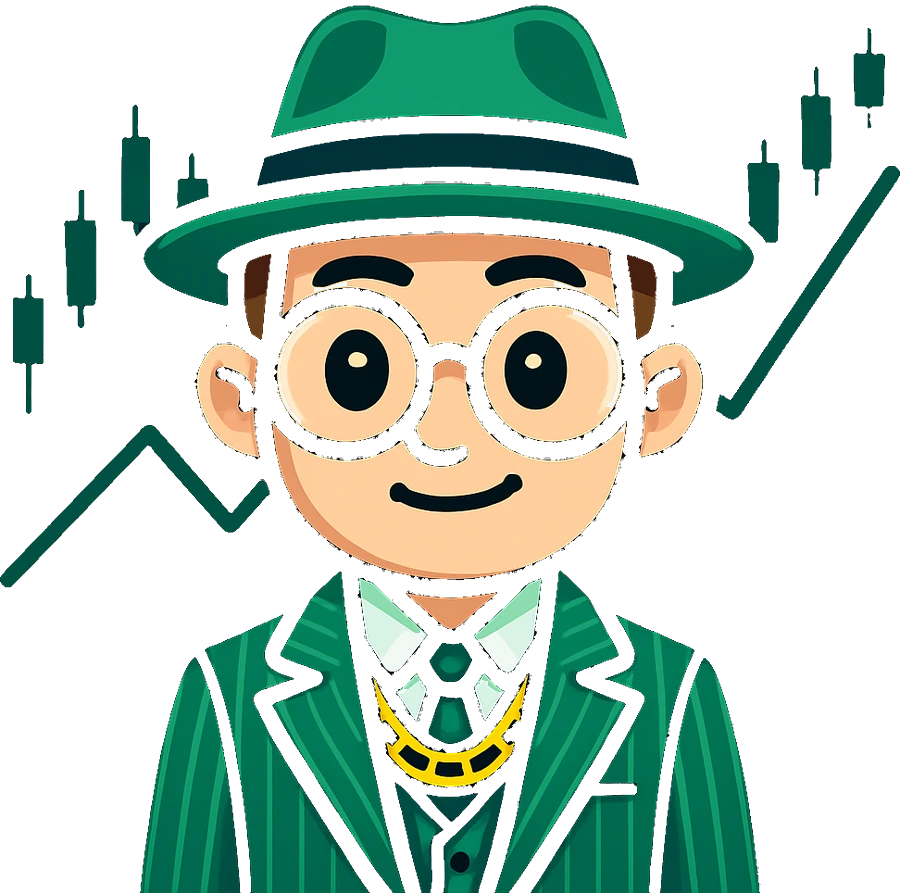
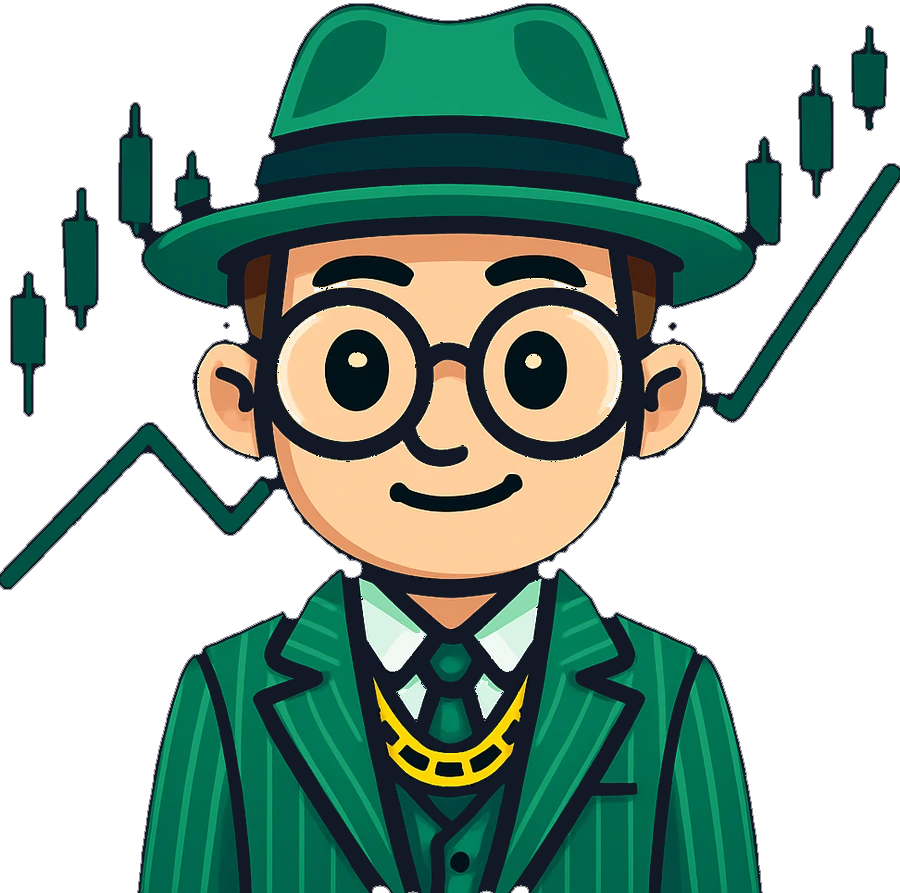
v3-goal-b21-2026-10-18: M-3 Stox mascot outline fix, H-4 quota on 500-row page, CR-6 dialog opens at cap, G-08 spot rounding, G-23 nine more sourced guides

diff --git a/src/data/learn-content.ts b/src/data/learn-content.ts
@@ -81,6 +81,39 @@ const SHARESIES_PLANS: Source = {
   published: "2026-02-03",
 };
 
+const IRD_SHARES: Source = {
+  title: "Inland Revenue: Share investments",
+  url: "https://www.ird.govt.nz/income-tax/income-tax-for-individuals/types-of-individual-income/share-investments",
+};
+const IRD_ORDINARY: Source = {
+  title: "Inland Revenue: Income under ordinary tax rules",
+  url: "https://www.ird.govt.nz/income-tax/income-tax-for-individuals/types-of-individual-income/income-under-ordinary-tax-rules",
+};
+const IRD_CRYPTO: Source = { title: "Inland Revenue: Cryptoassets", url: "https://www.ird.govt.nz/cryptoassets" };
+const IRD_CRYPTO_BUYSELL: Source = { title: "Inland Revenue: Buying and selling cryptoassets", url: "https://www.ird.govt.nz/cryptoassets/individual/buying-selling" };
+const IRD_CRYPTO_PURPOSE: Source = {
+  title: "Inland Revenue: Acquiring cryptoassets to sell or exchange",
+  url: "https://www.ird.govt.nz/cryptoassets/individual/buying-selling/acquiring-sell-exchange",
+};
+const IRD_CRYPTO_RECORDS: Source = { title: "Inland Revenue: Record keeping for cryptoassets", url: "https://www.ird.govt.nz/cryptoassets/taxing/record-keeping" };
+const IRD_CRYPTO_CALC: Source = {
+  title: "Inland Revenue: Calculating cryptoasset income",
+  url: "https://www.ird.govt.nz/cryptoassets/taxing/income-expenses/calculating-cryptoasset-income",
+};
+const IRD_TAX_RATES: Source = {
+  title: "Inland Revenue: Tax rates for individuals",
+  url: "https://www.ird.govt.nz/income-tax/income-tax-for-individuals/tax-codes-and-tax-rates-for-individuals/tax-rates-for-individuals",
+};
+const IRD_KS_EMPLOYEE: Source = {
+  title: "Inland Revenue: Employee contributions to KiwiSaver accounts",
+  url: "https://www.ird.govt.nz/kiwisaver/kiwisaver-individuals/growing-my-kiwisaver-account/employee-contributions-to-kiwisaver",
+};
+const IRD_KS_RATE_CHANGE: Source = {
+  title: "Inland Revenue: Employee contributions",
+  url: "https://www.ird.govt.nz/kiwisaver/kiwisaver-individuals/employee-contributions",
+};
+const IRD_KS_CHANGES_2026: Source = { title: "Inland Revenue: KiwiSaver changes", url: "https://www.ird.govt.nz/kiwisaver-changes", published: "2026-03-19" };
+
 export const GUIDES: readonly Guide[] = [
   {
     slug: "fif-50000-threshold",
@@ -193,6 +226,106 @@ export const GUIDES: readonly Guide[] = [
       { text: "There are NZ$3, NZ$7 and NZ$15 plans, paid monthly or annually, plus a NZ$1 kids plan paid monthly.", source: SHARESIES_PLANS },
       { text: "Orders over plan coverage pay 1.9% of the amount, capped at US$5 for US shares, A$15 for Australian shares and NZ$25 for NZ shares.", source: SHARESIES_PLANS },
       { text: "There is no transaction fee on orders for managed funds (funds not listed on an exchange).", source: SHARESIES_PLANS },
+    ],
+  },
+  {
+    slug: "share-sale-tax",
+    title: "When NZ share sales are taxed",
+    description: "The three situations where Inland Revenue treats amounts from selling shares as income, and what is taxed.",
+    intro: "New Zealand has no general capital gains tax, but some share sales are still taxable. Inland Revenue sets out when.",
+    facts: [
+      { text: "Amounts from selling shares are taxable if you bought them for the dominant or main purpose of selling them, have a share dealing business, or hold them as part of a profit-making scheme.", source: IRD_SHARES },
+      { text: "The amount that is taxable is the sale price less the cost of the shares, and it is only taxed once.", source: IRD_SHARES },
+      { text: "You do not have to be in business or intend to make a profit: a one-off sale is still taxable if you bought the shares mainly to sell.", source: IRD_SHARES },
+      { text: "There is no bright-line test for share sales, so no set holding period or number of trades decides it.", source: IS2410 },
+    ],
+  },
+  {
+    slug: "share-purchase-records",
+    title: "Records that show why you bought shares",
+    description: "The records Inland Revenue says can support your stated purpose when you bought and sold shares.",
+    intro: "Your purpose when you bought a share can decide whether a sale is taxed, so records made at the time matter.",
+    facts: [
+      { text: "Useful records include notes on why you bought (such as emails), the research you relied on, any investment plan or adviser notes, and lending records if you borrowed to invest.", source: IRD_SHARES },
+      { text: "Your stated purpose is tested against the nature of the share, how long you held it, the circumstances of purchase and sale, and the number of similar transactions.", source: IRD_SHARES },
+      { text: "Recording reasons for sales, such as rebalancing or a change in circumstances, can help show they fit your stated purpose.", source: IS2410 },
+    ],
+  },
+  {
+    slug: "personal-property-for-disposal",
+    title: "Shares, gold and crypto bought to sell",
+    description: "How Inland Revenue treats profits on personal property, including shares, gold and cryptoassets, bought mainly to sell.",
+    intro: "The same purpose test covers more than shares.",
+    facts: [
+      { text: "Selling personal property such as shares, gold and cryptoassets is income if it was bought with the main or dominant purpose of selling it.", source: IRD_ORDINARY },
+      { text: "Inland Revenue looks at the type of asset, your reasons for buying and selling, the number of similar transactions, the holding period and how the asset was used and sold.", source: IRD_ORDINARY },
+    ],
+  },
+  {
+    slug: "crypto-tax-basics",
+    title: "Cryptoassets and NZ tax: the basics",
+    description: "How Inland Revenue treats cryptoassets: property for tax, when buying and selling is taxable, and what counts as a disposal.",
+    intro: "Inland Revenue has a dedicated section on cryptoassets.",
+    facts: [
+      { text: "Cryptoassets are treated as a form of property for tax purposes; the treatment depends on their characteristics and use, not what they are called.", source: IRD_CRYPTO },
+      { text: "In most cases amounts from selling, trading or exchanging cryptoassets are taxable, including exchanging one cryptoasset for another.", source: IRD_CRYPTO_BUYSELL },
+      { text: "Moving cryptoassets between wallets, addresses or accounts that all belong to you is not a disposal.", source: IRD_CRYPTO_BUYSELL },
+      { text: "Reasons like long-term investment, an inflation hedge or diversification usually still involve a purpose of eventually selling or exchanging.", source: IRD_CRYPTO_PURPOSE },
+    ],
+  },
+  {
+    slug: "crypto-income-calculation",
+    title: "Working out crypto income: FIFO or weighted average",
+    description: "Inland Revenue's formula for cryptoasset income and the two cost methods it allows.",
+    intro: "Once a disposal is taxable, the income has to be calculated in New Zealand dollars.",
+    facts: [
+      { text: "Income = sale price – purchase cost – transaction fees.", source: IRD_CRYPTO_CALC },
+      { text: "Cost can be worked out with first-in first-out (FIFO) or weighted average cost (WAC).", source: IRD_CRYPTO_CALC },
+      { text: "Losses on disposals can offset other cryptoasset profits and then other income; unrealised gains and losses are not taxable or deductible.", source: IRD_CRYPTO_CALC },
+      { text: "Reconcile holdings as of 31 March each year and record a crypto-to-crypto trade as both a disposal and an acquisition.", source: IRD_CRYPTO_CALC },
+    ],
+  },
+  {
+    slug: "crypto-records",
+    title: "Crypto records to keep for seven years",
+    description: "The cryptoasset transaction records Inland Revenue asks you to keep, and for how long.",
+    intro: "Exchanges may not keep your history, so Inland Revenue suggests downloading it regularly.",
+    facts: [
+      { text: "Keep the type of cryptoasset, transaction date and type, number of units, NZD value, units held at the start and end of the year, exchange records and bank statements, and wallet addresses.", source: IRD_CRYPTO_RECORDS },
+      { text: "Keep these records for at least 7 years, even if you no longer hold any cryptoassets.", source: IRD_CRYPTO_RECORDS },
+    ],
+  },
+  {
+    slug: "nz-income-tax-rates",
+    title: "NZ income tax rates from 1 April 2025",
+    description: "Individual income tax brackets from 1 April 2025, as published by Inland Revenue. Investment income is part of total income.",
+    intro: "Taxable investment income, such as interest and some overseas income, is added to your other income and taxed at these rates.",
+    facts: [
+      { text: "From 1 April 2025: 10.5% on income up to $15,600; 17.5% from $15,601 to $53,500; 30% from $53,501 to $78,100; 33% from $78,101 to $180,000; 39% over $180,000.", source: IRD_TAX_RATES },
+      { text: "Income such as interest from a bank account or investment and overseas income counts towards total income for the year.", source: IRD_TAX_RATES },
+    ],
+  },
+  {
+    slug: "kiwisaver-contribution-rates",
+    title: "KiwiSaver employee contribution rates",
+    description: "The KiwiSaver employee contribution rates you can choose, the default, and how often you can change.",
+    intro: "If you are an employee, KiwiSaver contributions usually come from your pay.",
+    facts: [
+      { text: "You can choose to contribute 3.5%, 4%, 6%, 8% or 10% of your pay; the default rate is 3.5%.", source: IRD_KS_RATE_CHANGE },
+      { text: "You can change your rate once every 3 months unless your employer agrees to a shorter timeframe.", source: IRD_KS_RATE_CHANGE },
+      { text: "Before-tax pay for KiwiSaver includes allowances, bonuses, commission, overtime and gratuities.", source: IRD_KS_EMPLOYEE },
+    ],
+  },
+  {
+    slug: "kiwisaver-default-rate-rise",
+    title: "The KiwiSaver default rate rise (2026 and 2028)",
+    description: "The Budget 2025 changes that lift the default KiwiSaver rate from 3% to 3.5% in April 2026 and 4% in April 2028.",
+    intro: "Inland Revenue published the timetable for the default rate change.",
+    facts: [
+      { text: "From 1 April 2026 the default employee and matching employer rate rose from 3% to 3.5%.", source: IRD_KS_CHANGES_2026 },
+      { text: "A temporary rate reduction lets you keep contributing 3% for between 3 and 12 months, and you can apply more than once.", source: IRD_KS_CHANGES_2026 },
+      { text: "From 1 April 2026, 16- and 17-year-olds qualify for employer contributions of 3.5% if they meet the other requirements.", source: IRD_KS_CHANGES_2026 },
+      { text: "From 1 April 2028 the default rate rises again, to 4%, for both employee and employer.", source: IRD_KS_CHANGES_2026 },
     ],
   },
 ];

diff --git a/src/components/dashboard/PreciousMetals.tsx b/src/components/dashboard/PreciousMetals.tsx
@@ -399,10 +399,10 @@ export function PreciousMetals({
   if (!entitled) {
     const gold = effectiveSpot?.gold;
     const silver = effectiveSpot?.silver;
-    const held = heldMetalRows(ledgerRows);
+    const held = heldMetalRows(ledgerRows, { gold: spotFor("gold"), silver: spotFor("silver") });
     return (
       <div className="rounded-3xl border border-border/70 bg-card/50 p-6 sm:p-8">
-        <h2 className="font-display text-xl font-bold">Smitty spot prices</h2>
+        <h2 className="font-display text-xl font-bold">Gold and silver spot prices</h2>
         <p className="mt-2 max-w-xl text-sm text-muted-foreground">
           Gold and silver spot prices are on this page. Record ounces from the transaction panel. The ledger is the book.
           {metalUpdatedPhrase(spot?.quotedAt) ? ` ${metalUpdatedPhrase(spot?.quotedAt)}.` : gold || loading ? "" : " Spot prices failed to load."}
@@ -689,9 +689,9 @@ export function PreciousMetals({
         <p className="mt-2 px-1 text-[0.7rem] text-muted-foreground">
           Buys and sells are recorded in the transaction panel, including the paper fee, and written to the ledger.
         </p>
-        {heldMetalRows(ledgerRows).length > 0 ? (
+        {heldMetalRows(ledgerRows, { gold: spotFor("gold"), silver: spotFor("silver") }).length > 0 ? (
           <ul className="mt-4 space-y-1 text-sm">
-            {heldMetalRows(ledgerRows).map((row) => {
+            {heldMetalRows(ledgerRows, { gold: spotFor("gold"), silver: spotFor("silver") }).map((row) => {
               const spotShown = shownMetalSpot(spotLive, spotFor(row.metal));
               return (
                 <li key={row.metal}>

diff --git a/src/lib/must-fix/goal-b21.test.ts b/src/lib/must-fix/goal-b21.test.ts
@@ -1,0 +1,26 @@
+// pull-check:v3-goal-b21-2026-10-18
+import { describe, expect, it } from "vitest";
+import { readFileSync } from "node:fs";
+import { heldMetalRows } from "@/lib/metal-valuation";
+import { GUIDES } from "@/data/learn-content";
+
+const read = (p: string) => readFileSync(p, "utf8");
+
+describe("Goal b21", () => {
+  it("pins the build", () => expect(read("public/build-version.txt").trim()).toBe("v3-goal-b21-2026-10-18"));
+  it("G-08: per-oz row shows spot itself, value = oz × spot to the cent", () => {
+    const rows = heldMetalRows([{ metal: "gold", ounces: 0.01, marketValueNZD: 74.4, purchasePerOz: 7000 } as never], { gold: 7438.57 });
+    expect(rows[0].pricePerOz).toBe(7438.57);
+    expect(rows[0].valueNzd).toBe(74.39);
+    expect(read("src/components/dashboard/PreciousMetals.tsx")).not.toContain(">Smitty spot prices<");
+  });
+  it("H-4: the 500-row page renders the server quota", () => {
+    expect(read("src/app/test-hooks/dashboard-500/page.tsx")).toMatch(/ServerQuotaStrip/);
+  });
+  it("G-23: every guide fact has a source or a reason; slugs, titles and descriptions are unique", () => {
+    expect(GUIDES.length).toBeGreaterThanOrEqual(19);
+    for (const g of GUIDES) for (const f of g.facts) expect(f.source != null || !!f.missingReason).toBe(true);
+    for (const key of ["slug", "title", "description"] as const) expect(new Set(GUIDES.map((g) => g[key])).size).toBe(GUIDES.length);
+    expect(JSON.stringify(GUIDES)).not.toMatch(/\bGST\b/);
+  });
+});

diff --git a/src/app/test-hooks/dashboard-500/page.tsx b/src/app/test-hooks/dashboard-500/page.tsx
@@ -1,6 +1,8 @@
 import { notFound } from "next/navigation";
 import Fixture500Client from "@/components/dashboard/Fixture500Client";
 import { currentUserMayUseTestHooks } from "@/lib/test-hooks.server";
+import { ServerQuotaStrip } from "@/components/dashboard/DashboardSessionShell";
+import { serverReportQuota } from "@/lib/dashboard-quota.server";
 
 export const dynamic = "force-dynamic";
 export const metadata = { title: "Example data · 500 rows · AetherForge AI", robots: { index: false, follow: false } };
@@ -8,5 +10,12 @@ export const metadata = { title: "Example data · 500 rows · AetherForge AI", r
 // Goal b20 SECURITY: same gate as /test-hooks.
 export default async function Page() {
   if (!(await currentUserMayUseTestHooks())) notFound();
-  return <Fixture500Client />;
+  // Goal b21 H-4: the same server-read Report Center quota as /dashboard, in the first HTML.
+  const quota = await serverReportQuota().catch(() => null);
+  return (
+    <>
+      {quota ? <ServerQuotaStrip quota={quota} /> : <p className="mx-auto mt-4 max-w-6xl px-6 text-sm" data-server-quota>Report quota: — (could not be read)</p>}
+      <Fixture500Client />
+    </>
+  );
 }

diff --git a/src/lib/metal-valuation.ts b/src/lib/metal-valuation.ts
@@ -266,7 +266,11 @@ export interface HeldMetalRow {
  * One row per metal that is actually held. An empty book returns no rows.
  * pull-check:batch1-2026-10-11 B1-1
  */
-export function heldMetalRows(lots: readonly VisibleBullionLot[]): HeldMetalRow[] {
+export function heldMetalRows(
+  lots: readonly VisibleBullionLot[],
+  /** Goal b21 G-08: live spot per oz. When given, the row shows spot itself (not value ÷ ounces, which drifts by a cent). */
+  spotPerOz?: Partial<Record<MetalKey, number>>
+): HeldMetalRow[] {
   const grouped = new Map<MetalKey, { ounces: number; valueNzd: number }>();
   for (const lot of lots) {
     const ounces = Number(lot.ounces);
@@ -283,6 +287,10 @@ export function heldMetalRows(lots: readonly VisibleBullionLot[]): HeldMetalRow[
   return order.flatMap((metal) => {
     const row = grouped.get(metal);
     if (!row || !(row.ounces > 0)) return [];
+    const spot = Number(spotPerOz?.[metal]);
+    if (spot > 0 && Number.isFinite(spot)) {
+      return [{ metal, ounces: row.ounces, pricePerOz: spot, valueNzd: Math.round(row.ounces * spot * 100) / 100 }];
+    }
     return [
       {
         metal,

diff --git a/src/components/dashboard/PortfolioDashboard.tsx b/src/components/dashboard/PortfolioDashboard.tsx
@@ -2073,15 +2073,17 @@ export function PortfolioDashboard({
 
   function openAdd() {
     // Gate on the plan's ticker quota before opening the add dialog.
+    // Goal b21 CR-6: at the cap the dialog still opens, so a member can add to a
+    // holding they already have, sell, or move cash. A new ticker is refused inside
+    // the dialog (dry-run precheck) and by the server (403) with the cap message.
     if (atLimit) {
       const founder = quota.upgradeHref.startsWith("mailto:");
-      toast.error(quota.message, {
+      toast.message(quota.message, {
         action: {
-          label: founder ? "Talk to us" : "See Pro",
+          label: founder ? "Talk to us" : "See plans",
           onClick: () => { window.location.href = quota.upgradeHref; },
         },
       });
-      return;
     }
     openRecordTransaction({
       mode: "buy",

diff --git a/src/lib/must-fix/goal-b10.test.ts b/src/lib/must-fix/goal-b10.test.ts
@@ -1,6 +1,6 @@
 /**
  * Goal loop batch b10 (GOAL-LOCK G-04 G-05 G-06 G-12 G-13 G-16, G-10 review).
- * pull-check:v3-goal-b20-2026-10-18
+ * pull-check:v3-goal-b21-2026-10-18
  */
 import { readFileSync } from "node:fs";
 import { describe, expect, it } from "vitest";
@@ -19,8 +19,8 @@ const words = (s: string) => s.split(/\s+/).filter(Boolean).length;
 
 describe("b10 pins", () => {
   it("build version", () => {
-    expect(read("public/build-version.txt").trim()).toBe("v3-goal-b20-2026-10-18");
-    expect(read("qa/PULL-CHECK-2026-10-12.md")).toContain("pull-check:v3-goal-b20-2026-10-18");
+    expect(read("public/build-version.txt").trim()).toBe("v3-goal-b21-2026-10-18");
+    expect(read("qa/PULL-CHECK-2026-10-12.md")).toContain("pull-check:v3-goal-b21-2026-10-18");
   });
 });
 

diff --git a/src/lib/must-fix/goal-b11.test.ts b/src/lib/must-fix/goal-b11.test.ts
@@ -1,6 +1,6 @@
 /**
  * Goal loop batch b11 (GOAL-LOCK G-10 G-11 G-14 G-15 G-17).
- * pull-check:v3-goal-b20-2026-10-18
+ * pull-check:v3-goal-b21-2026-10-18
  */
 import { readFileSync } from "node:fs";
 import { describe, expect, it } from "vitest";
@@ -12,8 +12,8 @@ const read = (p: string) => readFileSync(p, "utf8");
 
 describe("b11 pins", () => {
   it("build version", () => {
-    expect(read("public/build-version.txt").trim()).toBe("v3-goal-b20-2026-10-18");
-    expect(read("qa/PULL-CHECK-2026-10-12.md")).toContain("pull-check:v3-goal-b20-2026-10-18");
+    expect(read("public/build-version.txt").trim()).toBe("v3-goal-b21-2026-10-18");
+    expect(read("qa/PULL-CHECK-2026-10-12.md")).toContain("pull-check:v3-goal-b21-2026-10-18");
   });
 });
 

diff --git a/src/lib/retest10.test.ts b/src/lib/retest10.test.ts
@@ -139,7 +139,7 @@ afterEach(() => {
 describe("pull-check:v3-retest10-2026-10-13", () => {
   it("is marked on the public copy and the build version", () => {
     expect(read("src/lib/public-copy.ts")).toContain("pull-check:v3-retest10-2026-10-13");
-    expect(read("public/build-version.txt").trim()).toBe("v3-goal-b20-2026-10-18");
+    expect(read("public/build-version.txt").trim()).toBe("v3-goal-b21-2026-10-18");
     expect(read("qa/PULL-CHECK-2026-10-12.md")).toContain("pull-check:v3-retest10-2026-10-13");
     expect(read("src/lib/crypto-board-store.ts")).toContain("Never seed when a snapshot exists");
     expect(read("src/lib/crypto-source.ts")).toContain("readSharedCryptoBoard({ seed: false })");

diff --git a/src/lib/retest9.test.ts b/src/lib/retest9.test.ts
@@ -53,7 +53,7 @@ describe("pull-check:v3-retest9-2026-10-12", () => {
   it("records the marker and the build", () => {
     expect(read("qa/PULL-CHECK-2026-10-12.md")).toContain("pull-check:v3-retest9-2026-10-12");
     expect(read("src/lib/public-copy.ts")).toContain("pull-check:v3-retest9-2026-10-12");
-    expect(read("public/build-version.txt").trim()).toBe("v3-goal-b20-2026-10-18");
+    expect(read("public/build-version.txt").trim()).toBe("v3-goal-b21-2026-10-18");
     expect(read("src/lib/changelog-entries.ts")).toContain("12 Oct 2026 — Shared prices, coin pages and cash");
     expect(read("src/lib/changelog-entries.ts")).not.toMatch(/GPT|Claude|Gemini|OpenAI|Anthropic/);
   });

diff --git a/src/lib/qa-v3-retest-tt.test.ts b/src/lib/qa-v3-retest-tt.test.ts
@@ -41,7 +41,7 @@ afterEach(() => {
 describe("pull-check:v3-retest-tt-2026-10-12", () => {
   it("marks the retest build", () => {
     expect(read("qa/PULL-CHECK-2026-10-12.md")).toContain("pull-check:v3-retest-tt-2026-10-12");
-    expect(read("public/build-version.txt").trim()).toBe("v3-goal-b20-2026-10-18");
+    expect(read("public/build-version.txt").trim()).toBe("v3-goal-b21-2026-10-18");
     expect(read("src/app/api/crypto/route.ts")).toContain("readSharedCryptoBoard");
     expect(pageTitle("About — Built in New Zealand, for New Zealanders")).toBe(
       "About — Built in New Zealand, for New Zealanders — AetherForge AI"

diff --git a/src/components/dashboard/DashboardSessionShell.tsx b/src/components/dashboard/DashboardSessionShell.tsx
@@ -84,7 +84,7 @@ export function DashboardSessionShell({
 }
 
 /** Goal b14 H-4: Plan usage and the reports-left banner painted from the server read. */
-function ServerQuotaStrip({ quota }: { quota: { used: number; limit: number } }) {
+export function ServerQuotaStrip({ quota }: { quota: { used: number; limit: number } }) {
   const left = Math.max(0, quota.limit - quota.used);
   return (
     <div data-server-quota className="mx-auto mt-4 flex max-w-7xl flex-wrap gap-x-4 gap-y-1 px-4 text-sm text-foreground">
